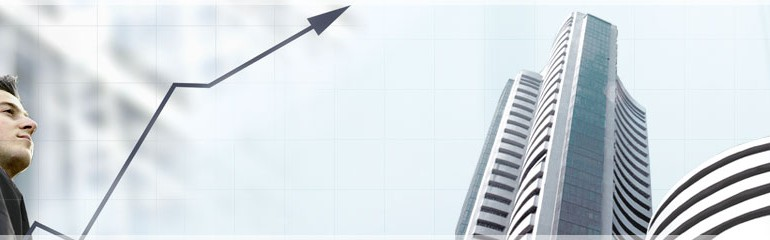
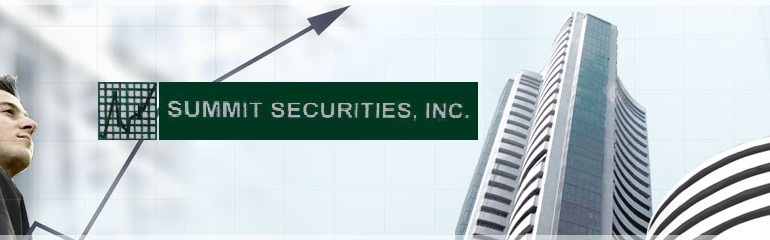
Final F2
Final revisions new banner

Changed region(s): [[0.1247, 0.3208, 0.6234, 0.5833]]

diff --git a/index.html b/index.html
@@ -27,7 +27,7 @@
     </div>
   </div>
   <div class="content">
-    <div class="content_resize"> <img src="images/img2.jpg" width="927" height="240" alt="" class="ctop"/>
+    <div class="content_resize"> <img src="images/img2.jpg" width="927" height="140" alt="" class="ctop"/>
       <div class="mainbar">
         <div class="article">
           	<h2><span>Welcome to Summit Securities, Inc.!</span></h2>

diff --git a/about.html b/about.html
@@ -30,7 +30,7 @@
     </div>
   </div>
   <div class="content">
-    <div class="content_resize"> <img src="images/img2.jpg" width="927" height="240" alt="" class="ctop" />
+    <div class="content_resize"> <img src="images/img2.jpg" width="927" height="140" alt="" class="ctop" />
       <div class="mainbar">
         <div class="article">
           <h2>A Brief History</h2>

diff --git a/employees.html b/employees.html
@@ -30,7 +30,7 @@
     </div>
   </div>
   <div class="content">
-    <div class="content_resize"> <img src="images/img2.jpg" width="927" height="240" alt="" class="ctop" />
+    <div class="content_resize"> <img src="images/img2.jpg" width="927" height="140" alt="" class="ctop" />
       <div class="mainbar">
         <div class="article">
           	<h2>OUR OFFICERS</h2>

diff --git a/services.html b/services.html
@@ -30,7 +30,7 @@
     </div>
   </div>
   <div class="content">
-    <div class="content_resize"> <img src="images/img2.jpg" width="927" height="240" alt="" class="ctop" />
+    <div class="content_resize"> <img src="images/img2.jpg" width="927" height="140" alt="" class="ctop" />
       <div class="mainbar">
         <div class="article">
 			<h2>Services Offered</h2>

diff --git a/contact.html b/contact.html
@@ -30,7 +30,7 @@
     </div>
   </div>
   <div class="content">
-    <div class="content_resize"> <img src="images/img2.jpg" width="927" height="240" alt="" class="ctop" />
+    <div class="content_resize"> <img src="images/img2.jpg" width="927" height="140" alt="" class="ctop" />
       <div class="mainbar">
         <div class="article">
 		<h2>Contact Us</h2>
